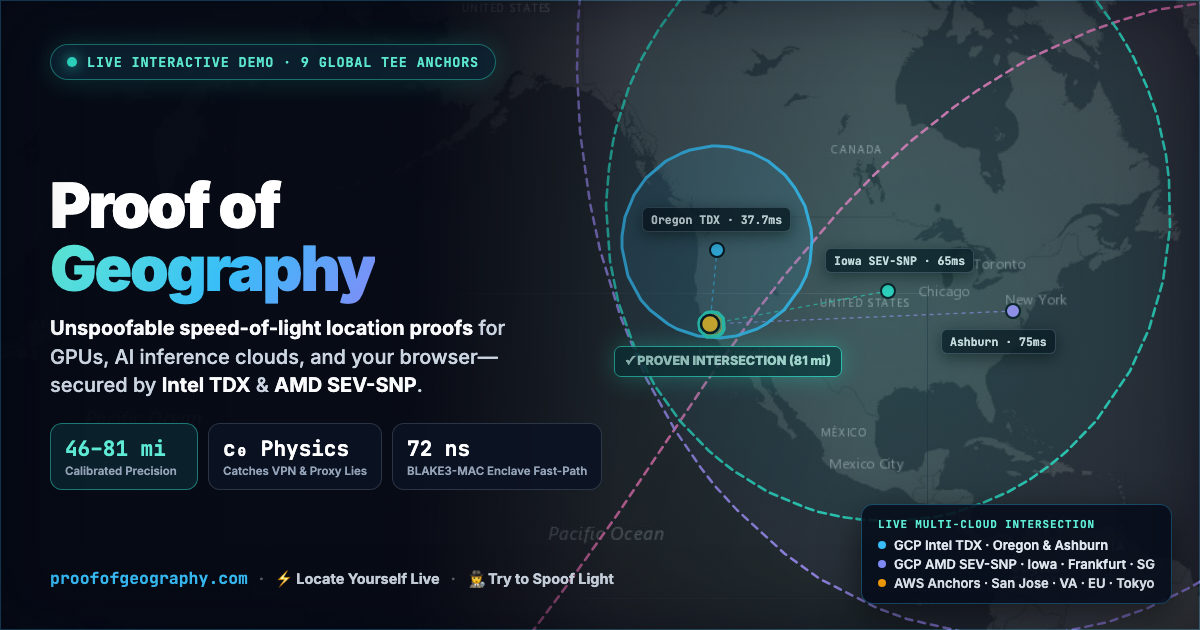
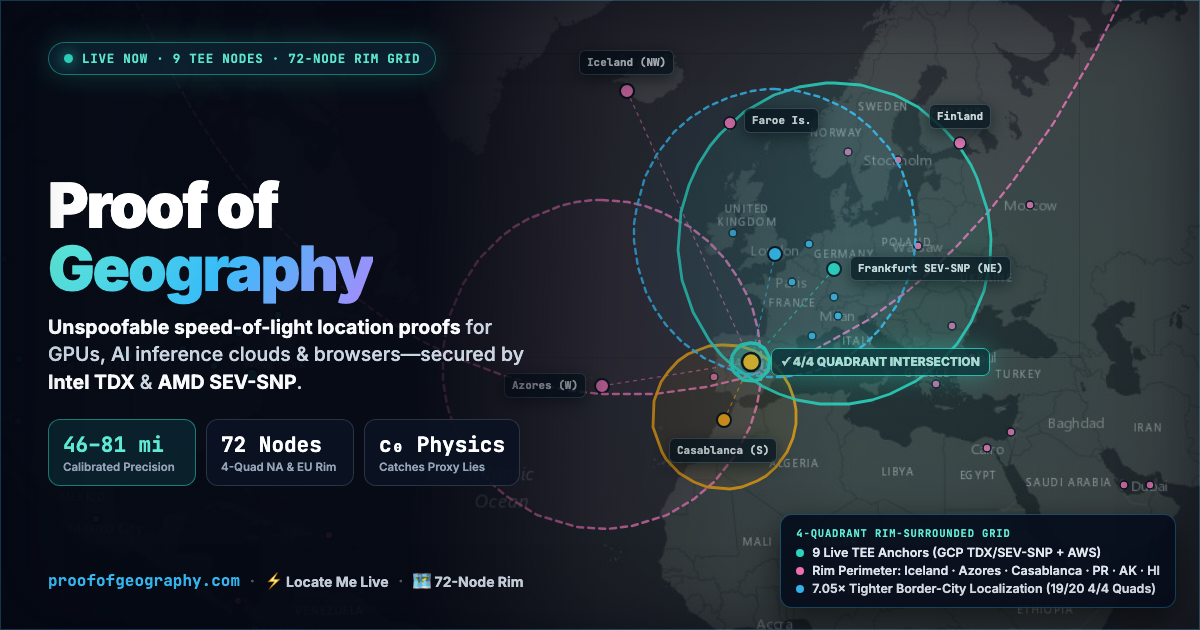
Update OG image, website metadata & README to highlight 72-node 4-quadrant rim-surrounded grid

diff --git a/web/index.html b/web/index.html
@@ -4,24 +4,24 @@
   <meta charset="utf-8" />
   <meta name="viewport" content="width=device-width, initial-scale=1" />
   <title>Proof of Geography — Live Speed-of-Light Location Proofs</title>
-  <meta name="description" content="Watch 9 live multi-cloud hardware TEE Anchors (Intel TDX, AMD SEV-SNP &amp; AWS) pinpoint your browser using the speed of light—and try to spoof them. Unspoofable physical geolocation for GPUs, AI inference clouds &amp; datacenters." />
+  <meta name="description" content="Watch 9 live multi-cloud hardware TEE Anchors (Intel TDX, AMD SEV-SNP &amp; AWS) pinpoint your browser using the speed of light, try spoofing them, and explore our 72-node rim-surrounded global grid (7.05× tighter border-city localization)." />
   <meta name="theme-color" content="#050914" />
   <link rel="icon" type="image/svg+xml" href="/favicon.svg" />
   <meta property="og:site_name" content="Proof of Geography" />
   <meta property="og:title" content="Proof of Geography — Unspoofable Speed-of-Light Location Proofs" />
-  <meta property="og:description" content="Can you outrun the speed of light? Test 9 live Intel TDX, AMD SEV-SNP &amp; AWS Anchors directly from your browser, try spoofing your location, and verify hardware-signed datacenter proofs in real time." />
+  <meta property="og:description" content="Can you outrun the speed of light? Test 9 live Intel TDX, AMD SEV-SNP &amp; AWS Anchors from your browser, try spoofing your location, and explore our 72-node rim-surrounded global grid across North America, Europe, Iceland, Azores, North Africa, Middle East &amp; Asia." />
   <meta property="og:type" content="website" />
   <meta property="og:url" content="https://proofofgeography.com/" />
-  <meta property="og:image" content="https://proofofgeography.com/og-image.png" />
-  <meta property="og:image:secure_url" content="https://proofofgeography.com/og-image.png" />
+  <meta property="og:image" content="https://proofofgeography.com/og-image.png?v=2" />
+  <meta property="og:image:secure_url" content="https://proofofgeography.com/og-image.png?v=2" />
   <meta property="og:image:type" content="image/png" />
   <meta property="og:image:width" content="1200" />
   <meta property="og:image:height" content="630" />
-  <meta property="og:image:alt" content="Proof of Geography live speed-of-light multilateration map showing calibrated circles from Intel TDX, AMD SEV-SNP, and AWS Anchors intersecting tightly over California." />
+  <meta property="og:image:alt" content="Proof of Geography 72-node rim-surrounded multi-cloud TEE Anchor map showing 4-quadrant speed-of-light circles from Iceland, Azores, Casablanca, and Frankfurt intersecting tightly over Western Europe." />
   <meta name="twitter:card" content="summary_large_image" />
   <meta name="twitter:title" content="Proof of Geography — Unspoofable Speed-of-Light Location Proofs" />
-  <meta name="twitter:description" content="Watch 9 live multi-cloud TEE Anchors pinpoint your browser with speed-of-light physics—and try to spoof them. Built to prove where GPUs &amp; AI inference clouds physically run." />
-  <meta name="twitter:image" content="https://proofofgeography.com/og-image.png" />
+  <meta name="twitter:description" content="Locate your browser with 9 live Intel TDX &amp; AMD SEV-SNP Anchors, test proxy/VPN lies, and explore our 72-node 4-quadrant rim-surrounded global grid." />
+  <meta name="twitter:image" content="https://proofofgeography.com/og-image.png?v=2" />
   <link rel="stylesheet" href="https://unpkg.com/leaflet@1.9.4/dist/leaflet.css" crossorigin="" />
   <link rel="preconnect" href="https://fonts.googleapis.com" />
   <link rel="preconnect" href="https://fonts.gstatic.com" crossorigin />

diff --git a/README.md b/README.md
@@ -3,7 +3,7 @@
 **Unspoofable, cryptographic, speed-of-light physical location proofs for GPUs, confidential datacenters, and AI inference endpoints—secured by hardware TEEs and a multi-cloud Anchor network.**
 
 > 🌐 **Try the Live Interactive Speed-of-Light Visualizer:** **[https://proofofgeography.com](https://proofofgeography.com)**
-> Watch 9 live multi-cloud Anchors (GCP Intel TDX, GCP AMD SEV-SNP & AWS) locate your browser in real time, simulate spoofing / inference-cloud lies, explore our 9×9 cross-cloud datacenter mesh, and cryptographically verify `X-PoG-Proof` headers online!
+> Watch 9 live multi-cloud Anchors (GCP Intel TDX, GCP AMD SEV-SNP & AWS) locate your browser in real time, simulate spoofing / inference-cloud lies, explore our **72-Node Rim-Surrounded Global Grid** (4-quadrant framing across North America, Canada, Mexico, Caribbean, Europe, Iceland, Faroe Islands, Azores, North Africa & Middle East), and cryptographically verify `X-PoG-Proof` headers online!
 
 ---
 
@@ -127,18 +127,19 @@ Run locally via `cargo run --release --bin pog-cli -- simulate`:
 
 ---
 
-## Global 24-Node Multi-Cloud Anchor Grid
+## 72-Node Rim-Surrounded Global Anchor Grid (vs. 24-Node Starter)
 
-Defined in [config/global_grid_24.json](config/global_grid_24.json) and provisioned via [infra/terraform/](infra/terraform/):
+Coastal and border cities (e.g., Lisbon, Dublin, Helsinki, Istanbul, San Francisco, Miami, Vancouver, Mexico City) suffer severe **GDOP** if nearby Anchors sit inland on only one side. Our canonical **[72-Node Rim-Surrounded Grid](config/global_grid_72.json)** ([docs/GRID_72_TOPOLOGY.md](docs/GRID_72_TOPOLOGY.md) · [infra/terraform/grid_72](infra/terraform/grid_72/main.tf)) surrounds both **North America** and **Europe** from all four compass quadrants (`N / S / E / W`):
 
-| Cloud Provider | Nodes | Regions | Hardware TEE Stack |
+| Global Theater | Nodes | Core Multi-Cloud Hubs | Outer Rim Perimeter Anchors (Kills Coastal & Border GDOP) |
 | :--- | :---: | :--- | :--- |
-| **Google Cloud (GCP)** | 8 | Ashburn, Iowa, Oregon, Frankfurt, London, Tokyo, Taiwan, Singapore | AMD SEV-SNP (`c3d-standard-4`, Secure TSC) & Intel TDX (`c3-standard-4`) |
-| **Amazon Web Services (AWS)** | 8 | N. Virginia, Oregon, San Jose, Frankfurt, Stockholm, Tokyo, Seoul, Sydney | EC2 AMD SEV-SNP (`c6a.large`, direct ENA) & Nitro Enclaves (`c6i.xlarge`) |
-| **Microsoft Azure** | 4 | Texas, Toronto, Amsterdam, São Paulo | Confidential VM SEV-SNP (`Standard_DC2as_v5`) & Intel TDX (`DC2es_v5`) |
-| **OVHcloud (EU Sovereign)** | 2 | Gravelines (FR), Warsaw (PL) | AMD SEV-SNP sovereign EU nodes outside US hyperscalers |
-| **ByteDance (BytePlus / Volcengine)** | 1 | Singapore / Johor Edge | Confidential ECS Intel TDX (`ecs.c3t.large`) |
-| **Tencent Cloud** | 1 | Hong Kong | Confidential CVM AMD SEV-SNP (`S6.MEDIUM4`) |
+| **North America + Canada + Mexico + Caribbean** | **26** | Ashburn (×2), NYC/Newark, Columbus, Chicago, Iowa, Dallas, Salt Lake City, Phoenix, LA, San Jose, Oregon (×2), Toronto, Montreal (×2) | **Honolulu (`HI`)**, **Anchorage (`AK`)**, **Vancouver**, **Calgary**, **Halifax (`NS`)**, **Miami**, **Querétaro / Mexico City** (GCP + AWS), **San Juan (`PR`)**, **Panama City** |
+| **Europe + North Atlantic + North Africa + Middle East + East Rim** | **30** | London (×2), Frankfurt (×2), Paris, Amsterdam, Zurich, Dublin, Madrid, Milan, Marseille | **Reykjavík (Iceland)**, **Tórshavn (Faroe Islands)**, **Ponta Delgada (Azores)**, **Lisbon**, **Oslo**, **Stockholm**, **Hamina (Finland)**, **Casablanca (Morocco)**, **Cairo (Egypt)**, **Tel Aviv**, **Athens**, **Warsaw (×2)**, **Bucharest**, **Istanbul**, **Dubai**, **Doha**, **Almaty**, optional Moscow IXP |
+| **Asia-Pacific, Oceania, LatAm & Africa** | **16** | Tokyo (×2), Seoul, Taiwan, Hong Kong, Singapore (×2), Mumbai (×2), Jakarta, Sydney, São Paulo, Santiago, Johannesburg | **Auckland (`NZ`)**, **Cape Town (`ZA`)** |
+
+**Verified Rust GDOP Audit (`pog-cli audit-coverage --grid config/global_grid_72.json --baseline-grid config/global_grid_24.json`, $f=1$ Byzantine):**
+* **7.05× tighter border & coastal localization:** 20-city mean calibrated bound drops from **`1,341 mi` → `190 mi`**, jumping from **1/20 → 19/20** cities with full **4/4 compass-quadrant surround** (e.g., Lisbon `2,043 → 211 mi`, Miami `1,918 → 186 mi`, San Francisco `1,039 → 159 mi`, Istanbul `2,392 → 135 mi`, Helsinki `1,176 → 292 mi`, Mexico City `3,034 → 240 mi`, Warsaw `806 → 11 mi`).
+* **Starter 24-node config** remains available in [config/global_grid_24.json](config/global_grid_24.json) alongside our live locked-down **9-node public grid** in [config/public_anchors.json](config/public_anchors.json).
 
 ---
 
@@ -197,15 +198,18 @@ cargo run --release --bin pog-cli -- export-sdk-fixture
 (cd sdks/go && go test -v ./...)
 (cd sdks/python && PYTHONPATH=. python3 -m unittest discover -v tests)
 
-# 2. Run the 6-scenario red-team & physics simulation suite
+# 2. Run the 6-scenario red-team simulation & 72-node border-city GDOP audit
 cargo run --release --bin pog-cli -- simulate
+cargo run --release --bin pog-cli -- audit-coverage --grid config/global_grid_72.json --baseline-grid config/global_grid_24.json
+cargo run --release --bin pog-cli -- calibrate-mesh --grid config/public_anchors.json --mesh-json web/data/live_mesh_summary.json
 
-# 3. Try the live local 4-Anchor network + interactive Web Playground (http://127.0.0.1:8090)
-./scripts/live_smoke_test.sh
+# 3. Run the drop-in Prover TEE reverse-proxy sidecar (auto-injects X-PoG-Proof on every API response)
+cargo run --release --bin pog-prover -- --grid-path config/public_anchors.json \
+  --claimed-lat 37.3382 --claimed-lon=-121.8863 --upstream http://127.0.0.1:8000 --log-url http://127.0.0.1:8090 --allow-dev-tee
 
-# 4. Deploy the real 24-node global grid on GCP + AWS + Azure (+ OVH/ByteDance/Tencent)
-#    See docs/DEPLOY_24_NODES.md for step-by-step cloud deployment
-./scripts/deploy_24_grid.sh <YOUR_GCP_PROJECT> <YOUR_AZURE_SUBSCRIPTION_ID>
+# 4. Build & verify reproducible SHA-256 TEE workload measurements from source
+./infra/reproducible/build_reproducible.sh
+./infra/reproducible/verify_measurement.sh dist/reproducible/measurement_manifest.json dist/reproducible
 ```
 
 ---
